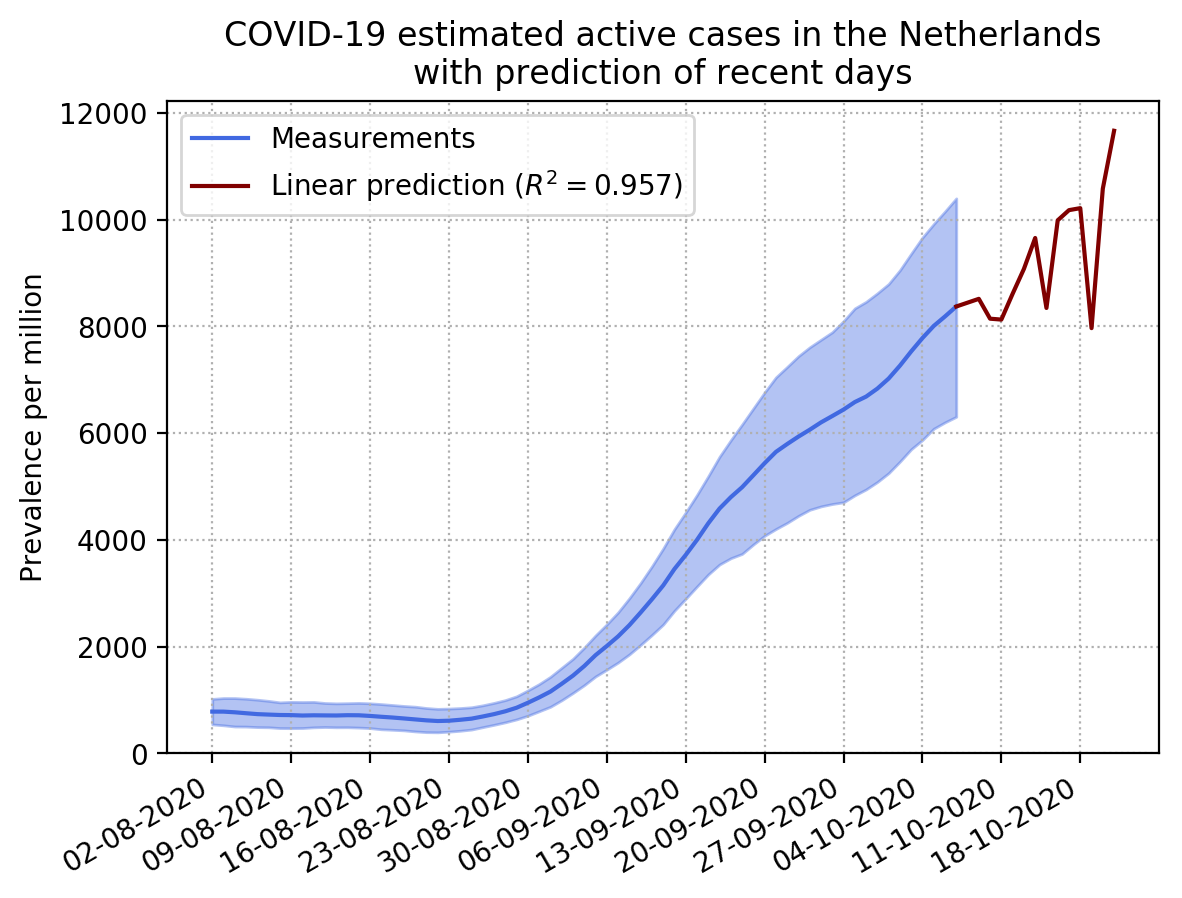
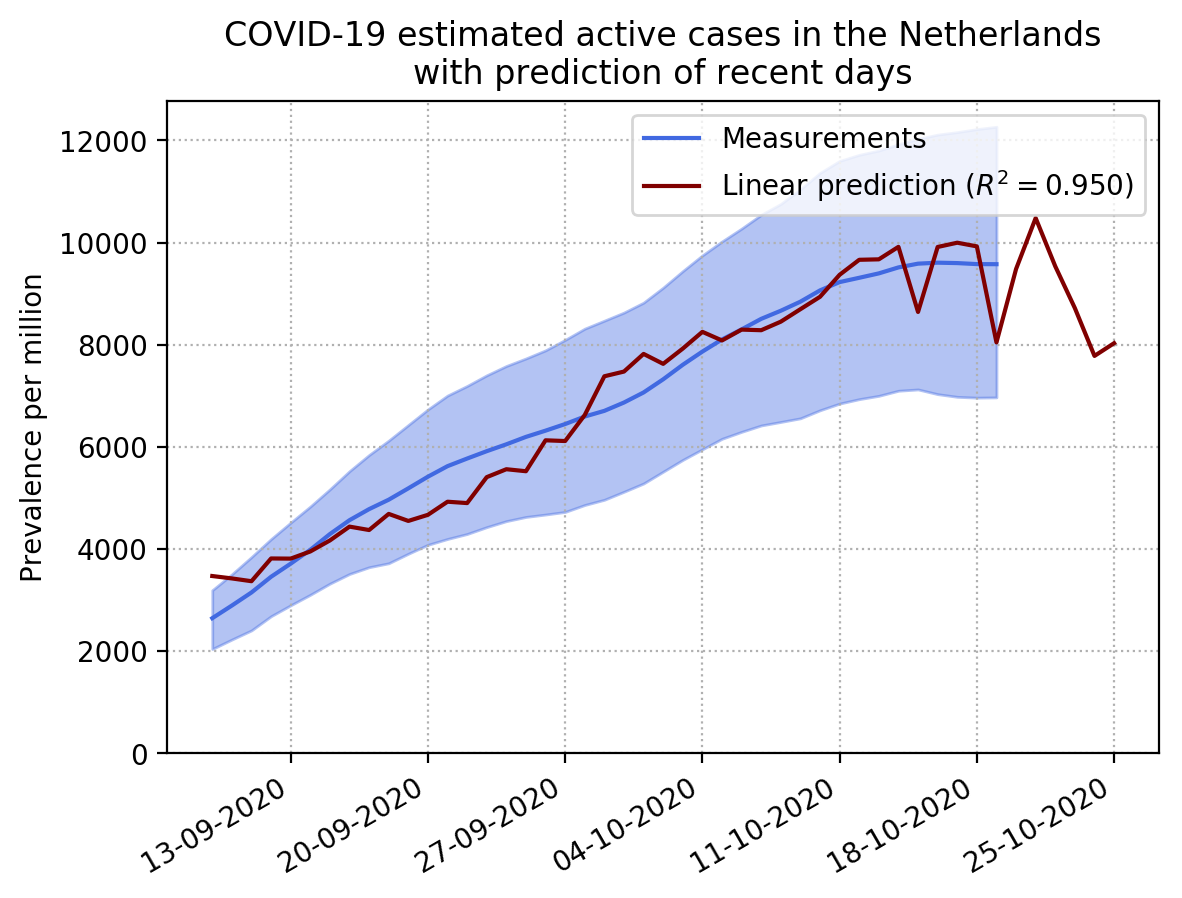
Updated code for loading sewage data and subsequent change for prevalence predictions to accomodate the change in measurements from number of virus RNA particles per mL to per 100.000 inhabitants

diff --git a/model_coronavirus_supression.py b/model_coronavirus_supression.py
@@ -360,7 +360,10 @@ def load_sewage_data(smooth = False, windowsize = 3, shiftdates = False):
 
 	downloadSave(sewage_url, sewage_fname, check_file_exists = True)
 
-	df_sewage = pd.read_csv(sewage_fname, usecols = ['Date_measurement', 'Security_region_name', 'Percentage_in_security_region', 'RNA_per_ml', 'Representative_measurement'])
+	df_sewage = pd.read_csv(sewage_fname, usecols = ['Date_measurement', 'Security_region_name', 'Percentage_in_security_region', 'RNA_flow_per_100.000', 'Representative_measurement'])
+
+	#shift RNA units to "* 100 billion"
+	df_sewage['RNA_flow_per_100.000'] /= 100e9
 
 	#only take "representative measurements" which span 24 hours instead of a single moment
 	df_sewage = df_sewage.loc[df_sewage['Representative_measurement']]
@@ -377,10 +380,10 @@ def load_sewage_data(smooth = False, windowsize = 3, shiftdates = False):
 	#add column indicating number of measurements
 	df_sewage['n_measurements'] = np.ones(len(df_sewage), dtype = int)
 
-	df_temp = df_sewage.groupby(['Security_region_name']).agg({'RNA_per_ml': 'median', 'n_measurements': 'sum'})
+	# df_temp = df_sewage.groupby(['Security_region_name']).agg({'RNA_per_ml': 'median', 'n_measurements': 'sum'})
 
 	#aggregate over the dates
-	df_sewage = df_sewage.groupby(['Date']).agg({'RNA_per_ml': 'median', 'n_measurements': 'sum'})
+	df_sewage = df_sewage.groupby(['Date']).agg({'RNA_flow_per_100.000': 'median', 'n_measurements': 'sum'})
 
 	if shiftdates:
 		#rough average peak of virus shedding
@@ -390,7 +393,7 @@ def load_sewage_data(smooth = False, windowsize = 3, shiftdates = False):
 
 	#smooth data if desired
 	if smooth:
-		df_sewage['RNA_per_ml_smooth'] = df_sewage['RNA_per_ml'].rolling(windowsize).mean()
+		df_sewage['RNA_flow_smooth'] = df_sewage['RNA_flow_per_100.000'].rolling(windowsize).mean()
 
 	return df_sewage
 
@@ -685,8 +688,8 @@ def plot_sewage():
 
 	ln1 = ax1.plot(df_sewage.index, df_sewage.n_measurements, color = '#0C83CC', label = 'Number of measurements', alpha = 1)
 
-	ax2.scatter(df_sewage.index, df_sewage.RNA_per_ml, color = 'maroon', label = 'Average RNA abundance', alpha = 0.4, s = 5)
-	ln2 = ax2.plot(df_sewage.index, df_sewage.RNA_per_ml_smooth, color = 'maroon', label = 'Average RNA abundance smoothed')
+	ax2.scatter(df_sewage.index, df_sewage['RNA_flow_per_100.000'], color = 'maroon', label = 'Average RNA abundance', alpha = 0.4, s = 5)
+	ln2 = ax2.plot(df_sewage.index, df_sewage['RNA_flow_smooth'], color = 'maroon', label = 'Average RNA abundance smoothed')
 
 	ax1.xaxis.set_tick_params(rotation = 45)
 
@@ -695,7 +698,7 @@ def plot_sewage():
 	ax2.legend(lns, labs, loc = 'best')
 
 	ax1.set_ylabel('Number of measurements')
-	ax2.set_ylabel('Number of RNA fragments per mL')
+	ax2.set_ylabel('Number of RNA fragments per 100.000\ninhabitants' + r' ($\times 100 \cdot 10^9$)')
 
 	ax1.grid(linestyle = ':', axis = 'x')
 	ax2.grid(linestyle = ':', axis = 'y')
@@ -1282,7 +1285,7 @@ def estimate_recent_prevalence():
 	df_daily_covid['Total_per_million'] = df_daily_covid['Total_reported'] * per_million_factor
 
 	#merge testing and sewage data
-	df_predictors = df_daily_covid.merge(df_sewage[['RNA_per_ml_smooth']], right_index = True, left_index = True)
+	df_predictors = df_daily_covid.merge(df_sewage[['RNA_flow_smooth']], right_index = True, left_index = True)
 	# df_predictors = df_predictors.merge(df_n_tests[['Number_of_tests']], right_index = True, left_index = True)
 
 	#determine test positivity ratio
@@ -1290,26 +1293,25 @@ def estimate_recent_prevalence():
 
 	#select second wave of infections with the high test rate, but stop at the
 	#section where the prevalence flattens (seems unrealistic)
-	startdate = '2020-08-01'
-	enddate = '2020-10-08'
+	#need to select after 2020-09-06 because that's when the sewage measurements change to per 100.000
+	startdate = '2020-09-08'
+	enddate = '2020-10-20'
 	df_predictors_sel = df_predictors.loc[(df_predictors.index > startdate) & (df_predictors.index < enddate)]
 	df_prevalence_sel = df_prevalence.loc[(df_prevalence.index > startdate) & (df_prevalence.index < enddate)]
 
-	print(df_predictors)
-
 
 	#discard days with too low number of positive tests per million for determining the correlation
-	test_pos_threshold = 40
+	# test_pos_threshold = 40
 
 	# startdate_for_cor = np.argmax(df_predictors_sel['Total_per_million'] > test_pos_threshold)
-	startdate_for_cor = '2020-08-10'
+	startdate_for_cor = '2020-09-08'
 	#datasets for determining correlation
 	df_predictors_cor = df_predictors_sel.loc[df_predictors_sel.index > startdate_for_cor]
 	df_prevalence_cor = df_prevalence_sel.loc[df_prevalence_sel.index > startdate_for_cor]
 
 	parameters_used = [
 	'Positivity_ratio',
-	'RNA_per_ml_smooth'
+	'RNA_flow_smooth'
 	]
 
 	'''
@@ -1377,20 +1379,20 @@ def estimate_recent_prevalence():
 
 	### Now make predictions for the most recent data
 	#select the positive test data
-	df_predictors_pred = df_predictors.loc[df_predictors.index > enddate]
+	df_predictors_pred = df_predictors.loc[df_predictors.index > startdate_for_cor]
 	#get data in sklearn shape
 	Xpred = dataframes_to_NDarray(df_predictors_pred, parameters_used)
 	#make the predictions
 	# df_predictors_pred['Prev_pred'] = linear_model(df_daily_covid_pred['Total_per_million'], *popt)
 	df_predictors_pred['Prev_pred'] = clf.predict(Xpred)
 
-	print(df_predictors_pred.tail())
-
-	#append the last data point from the real data
 	df_prevalence_pred = df_predictors_pred[['Prev_pred']]
+	#append the last data point from the real data
+	'''
 	df_prevalence_pred = df_prevalence_pred.append(df_prevalence_sel.iloc[-1:][['prev_avg']].rename(columns = {'prev_avg': 'Prev_pred'}))
 	#then sort again
 	df_prevalence_pred = df_prevalence_pred.sort_index()
+	'''
 
 
 	###now plot together with the old data
@@ -1429,11 +1431,11 @@ def estimate_recent_prevalence():
 def main():
 	# government_response_results_simple()
 
-	plot_superspreader_events()
+	# plot_superspreader_events()
 
 	# estimate_recent_R()
 
-	# estimate_recent_prevalence()
+	estimate_recent_prevalence()
 
 	# plot_prevalence_R()
 
@@ -1446,20 +1448,6 @@ def main():
 	# plot_hospitalization()
 
 	# stringency_R_correlation()
-
-	'''
-	df_prevalence, df_R0 = load_prevalence_R0_data()
-	df_deaths = load_deathdata()
-
-	### determine mortality rate per unit time mu
-	### mu = 1/I dD/dt
-	mu_mean = get_mean_mu(df_prevalence, df_deaths) #days^-1
-
-	### set other model parameters
-	# period of being not contagious
-	a = 1/8.3 #days^-1
-	#
-	'''
 
 
 if __name__ == '__main__':
